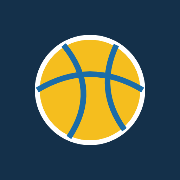
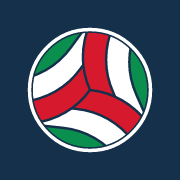
アイコンをバレーボールのデザインに変更

diff --git a/sw.js b/sw.js
@@ -1,5 +1,5 @@
 // 電波がなくても開けるように、アプリ本体とフォントを端末に保存する
-const CACHE='renshu-zukan-vc60c423e4d';
+const CACHE='renshu-zukan-v2-volleyball-icon';
 const FILES=['./','index.html','manifest.json','icon-192.png','icon-512.png','apple-touch-icon.png'];
 self.addEventListener('install',e=>{e.waitUntil(caches.open(CACHE).then(c=>c.addAll(FILES)).then(()=>self.skipWaiting()))});
 self.addEventListener('activate',e=>{e.waitUntil(caches.keys().then(k=>Promise.all(k.filter(n=>n!==CACHE).map(n=>caches.delete(n)))).then(()=>self.clients.claim()))});
